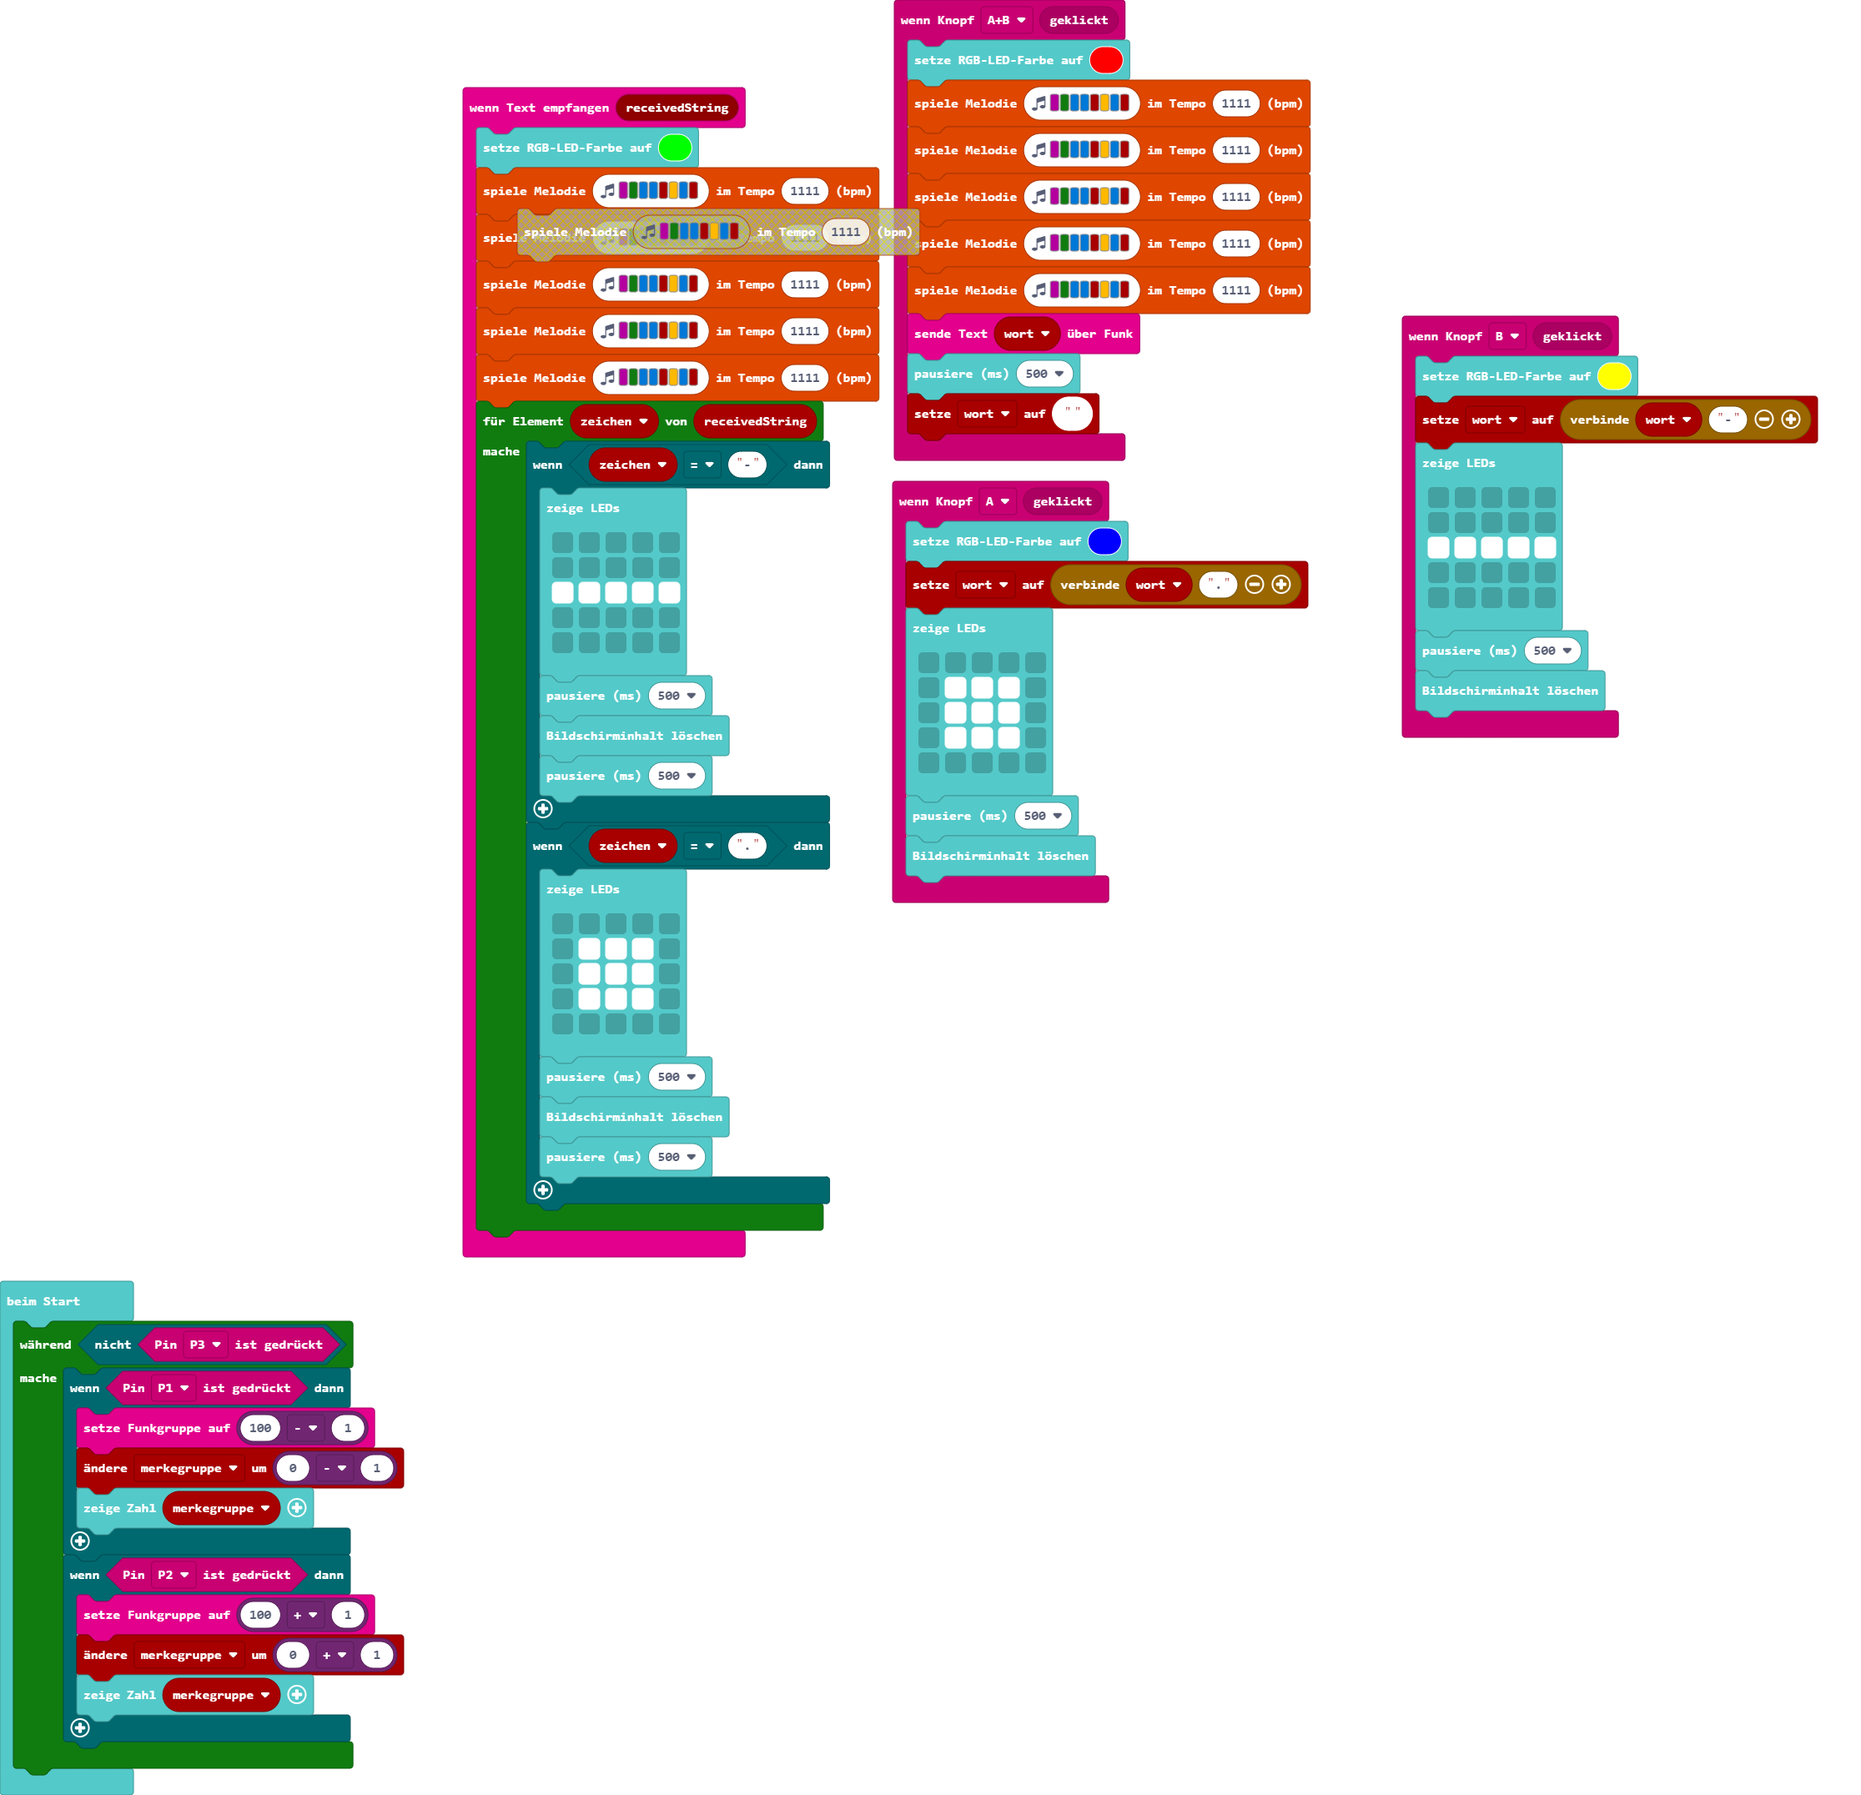
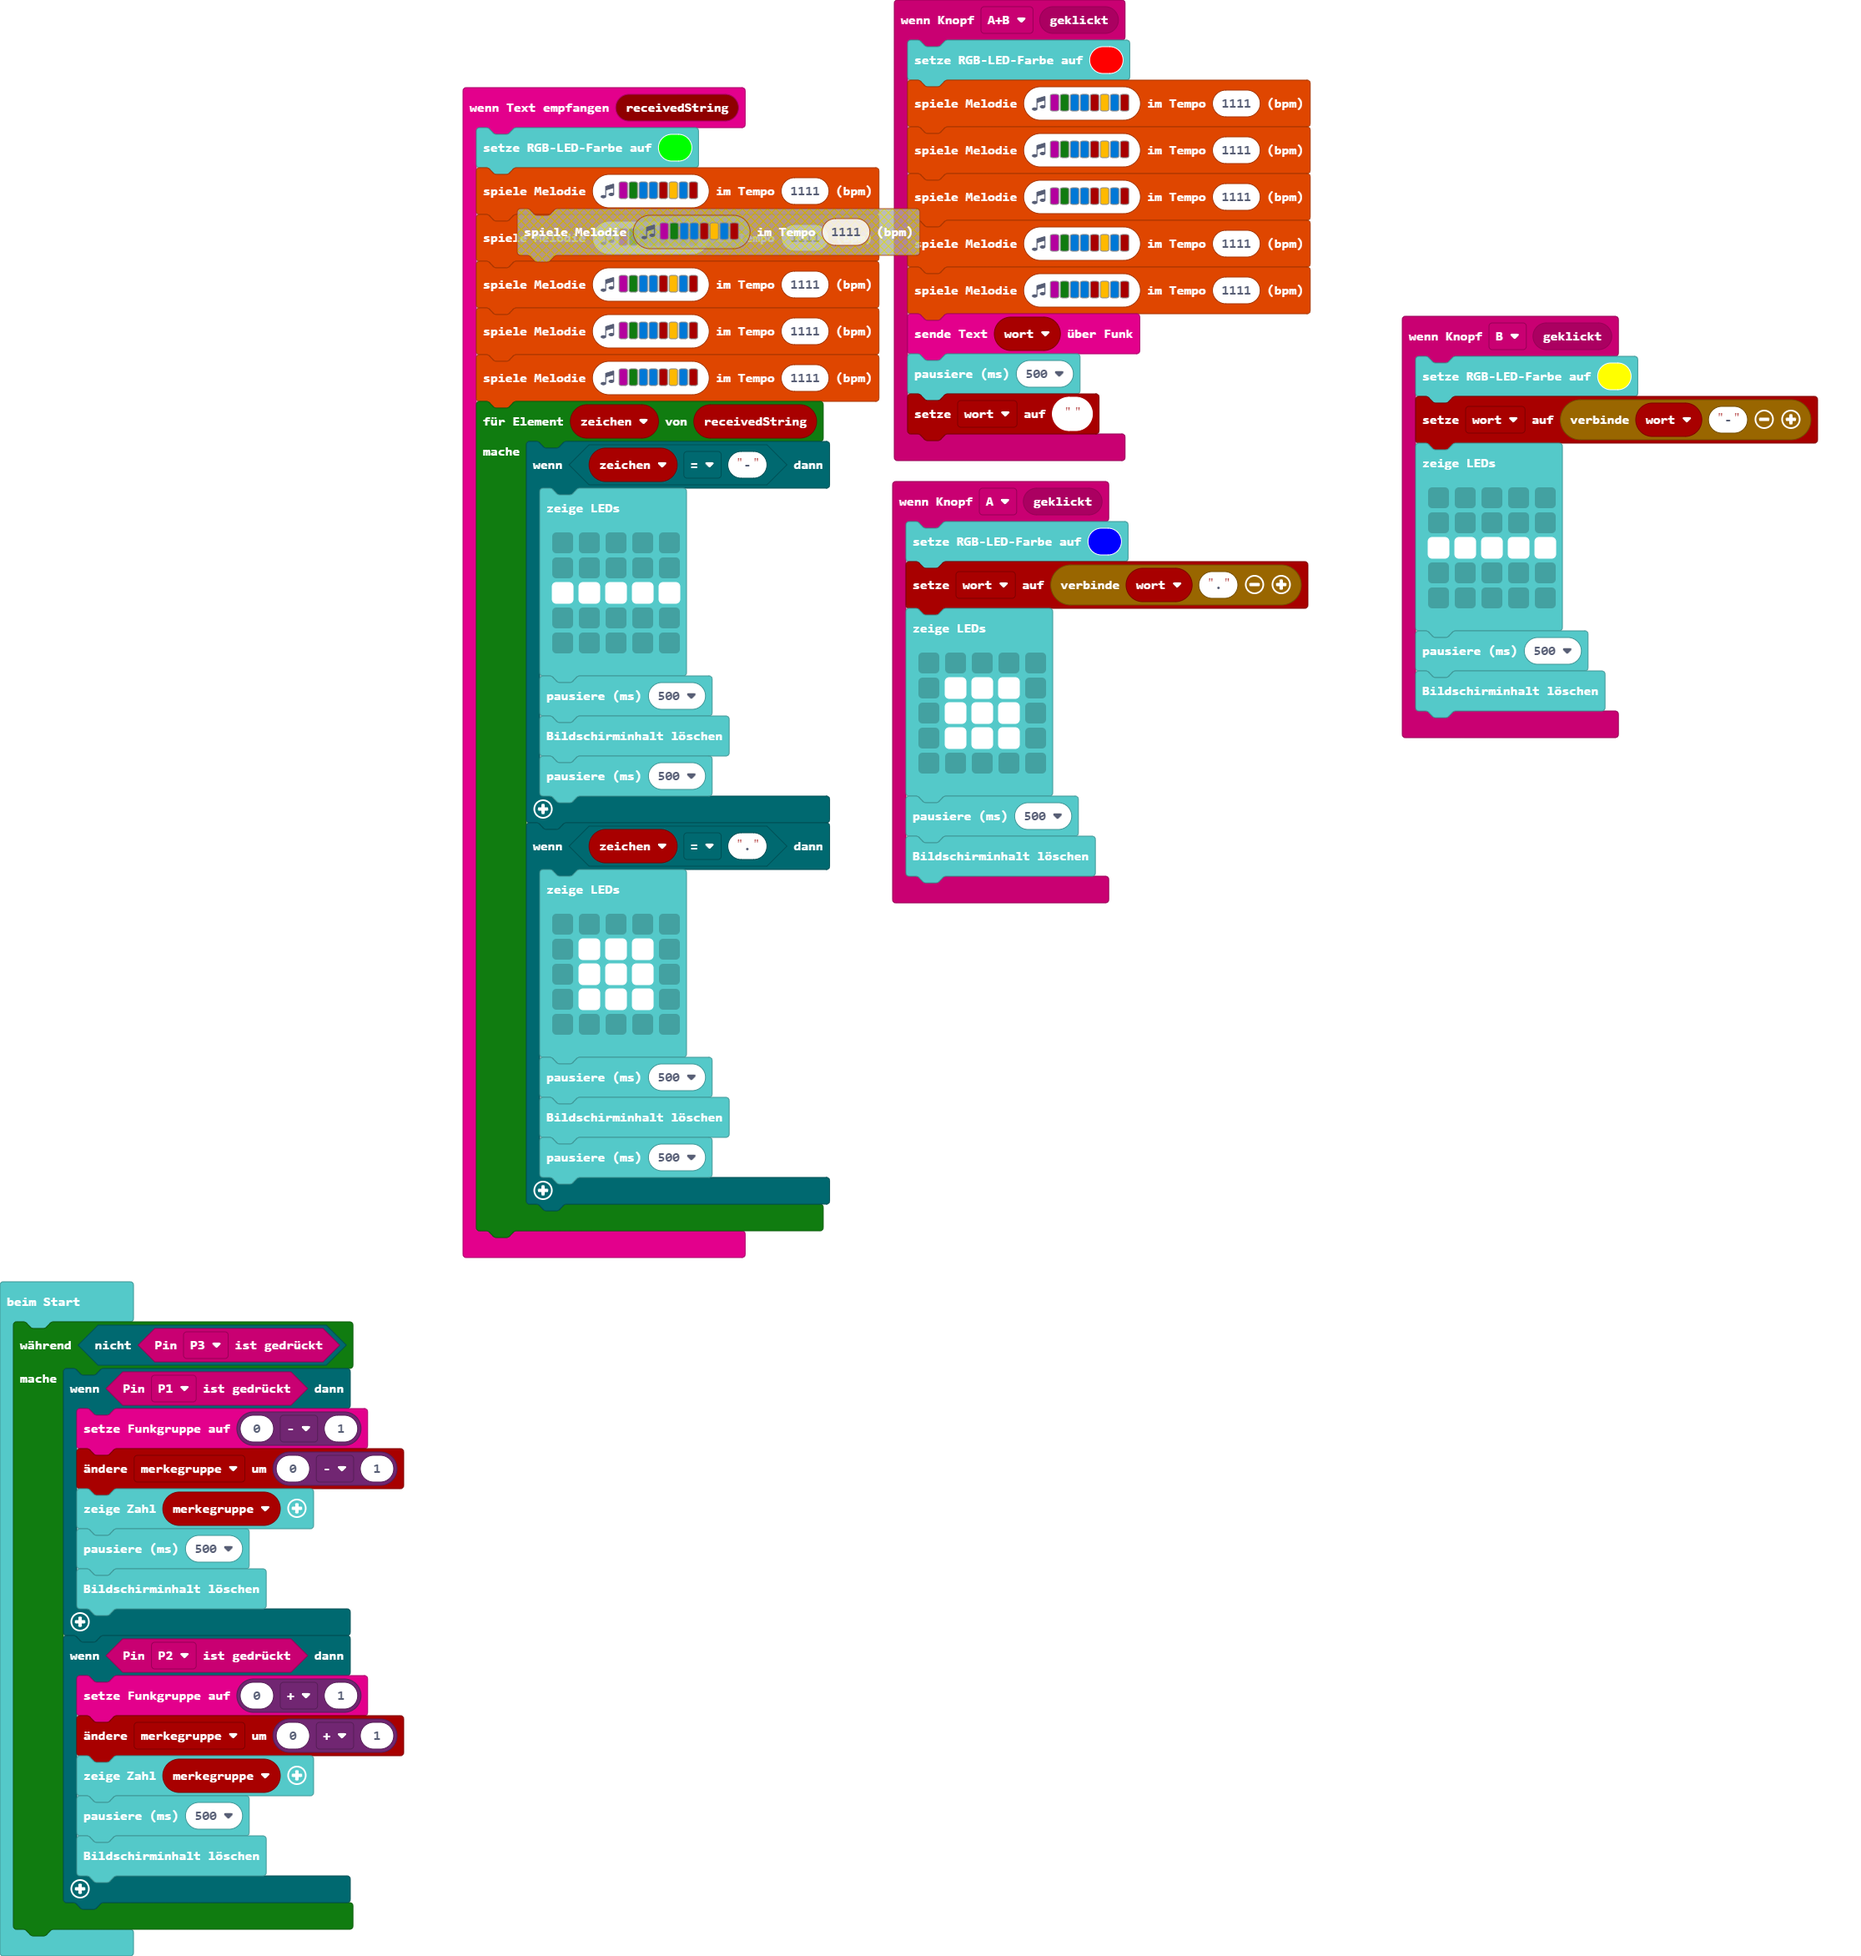
Aktualisiere main.blocks, main.ts

Changed region(s): [[0.2474, 0.0, 0.7113, 0.7161], [0.0, 0.6538, 0.2165, 0.9963], [0.7423, 0.1557, 0.9897, 0.4359]]

diff --git a/main.ts b/main.ts
@@ -73,13 +73,17 @@ let wort = ""
 let merkegruppe = 0
 while (!(input.pinIsPressed(TouchPin.P3))) {
     if (input.pinIsPressed(TouchPin.P1)) {
-        radio.setGroup(100 - 1)
+        radio.setGroup(0 - 1)
         merkegruppe += 0 - 1
         basic.showNumber(merkegruppe)
+        basic.pause(500)
+        basic.clearScreen()
     }
     if (input.pinIsPressed(TouchPin.P2)) {
-        radio.setGroup(100 + 1)
+        radio.setGroup(0 + 1)
         merkegruppe += 0 + 1
         basic.showNumber(merkegruppe)
+        basic.pause(500)
+        basic.clearScreen()
     }
 }
